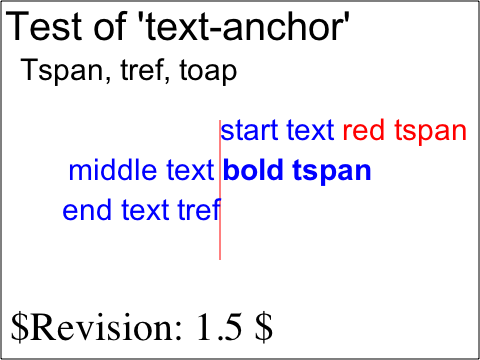
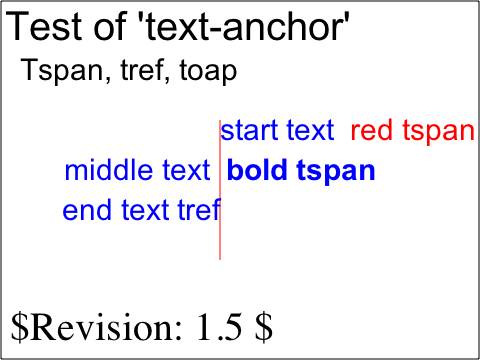
Reviewed by Sam.
Add support for xml:space="preserve" for SVG text.
It can be modeled by using white-space="pre" and replace \n by spaces.

Handle xml:space="default" correctly.
Always remove tabs from SVG text - as demanded by spec.

Added test: svg/custom/text-whitespace-handling.svg

Identifier: 16303@main
git-svn-id: https://svn.webkit.org/repository/webkit/trunk@19390 268f45cc-cd09-0410-ab3c-d52691b4dbfc

Changed region(s): [[0.125, 0.4278, 0.7812, 0.5194], [0.7188, 0.3361, 1.0, 0.3972]]

diff --git a/WebCore/css/svg.css b/WebCore/css/svg.css
@@ -51,5 +51,5 @@ text, foreignObject {
 }
 
 text, tspan {
-   white-space: nowrap !important
+   white-space: nowrap
 }

diff --git a/WebCore/rendering/bidi.cpp b/WebCore/rendering/bidi.cpp
@@ -1912,6 +1912,16 @@ static inline bool shouldCollapseWhiteSpace(const RenderStyle* style)
     return style->collapseWhiteSpace() || (style->whiteSpace() == PRE_WRAP && (!isLineEmpty || !previousLineBrokeCleanly));
 }
 
+static inline bool shouldPreserveNewline(RenderObject* object)
+{
+#ifdef SVG_SUPPORT
+    if (object->isSVGText())
+        return false;
+#endif
+
+    return object->style()->preserveNewline();
+}
+
 int RenderBlock::skipWhitespace(BidiIterator &it, BidiState &bidi)
 {
     // FIXME: The entire concept of the skipWhitespace function is flawed, since we really need to be building
@@ -1920,7 +1930,7 @@ int RenderBlock::skipWhitespace(BidiIterator &it, BidiState &bidi)
     // object iteration process.
     int w = lineWidth(m_height);
     while (!it.atEnd() && (it.obj->isInlineFlow() || (shouldCollapseWhiteSpace(it.obj->style()) && !it.obj->isBR() &&
-          (it.current() == ' ' || it.current() == '\t' || (!it.obj->style()->preserveNewline() && it.current() == '\n') ||
+          (it.current() == ' ' || it.current() == '\t' || (!shouldPreserveNewline(it.obj) && it.current() == '\n') ||
           it.current() == softHyphen || skipNonBreakingSpace(it) || it.obj->isFloatingOrPositioned())))) {
         if (it.obj->isFloatingOrPositioned()) {
             RenderObject *o = it.obj;
@@ -2008,7 +2018,13 @@ BidiIterator RenderBlock::findNextLineBreak(BidiIterator &start, BidiState &bidi
         
         bool autoWrap = RenderStyle::autoWrap(currWS);
         autoWrapWasEverTrueOnLine = autoWrapWasEverTrueOnLine || autoWrap;
+
+#ifdef SVG_SUPPORT
+        bool preserveNewline = o->isSVGText() ? false : RenderStyle::preserveNewline(currWS);
+#else
         bool preserveNewline = RenderStyle::preserveNewline(currWS);
+#endif
+
         bool collapseWhiteSpace = RenderStyle::collapseWhiteSpace(currWS);
             
         if (o->isBR()) {
@@ -2276,7 +2292,7 @@ BidiIterator RenderBlock::findNextLineBreak(BidiIterator &start, BidiState &bidi
                             }
                         }
                         if (lineWasTooWide || w + tmpW > width) {
-                            if (lBreak.obj && lBreak.obj->style()->preserveNewline() && lBreak.obj->isText() && static_cast<RenderText*>(lBreak.obj)->characters()[lBreak.pos] == '\n') {
+                            if (lBreak.obj && shouldPreserveNewline(lBreak.obj) && lBreak.obj->isText() && static_cast<RenderText*>(lBreak.obj)->characters()[lBreak.pos] == '\n') {
                                 if (!stoppedIgnoringSpaces && pos > 0) {
                                     // We need to stop right before the newline and then start up again.
                                     BidiIterator midpoint(0, o, pos);
@@ -2393,7 +2409,7 @@ BidiIterator RenderBlock::findNextLineBreak(BidiIterator &start, BidiState &bidi
                     RenderText* nextText = static_cast<RenderText*>(next);
                     if (nextText->textLength() != 0) {
                         UChar c = nextText->characters()[0];
-                        if (c == ' ' || c == '\t' || (c == '\n' && !next->style()->preserveNewline()))
+                        if (c == ' ' || c == '\t' || (c == '\n' && !shouldPreserveNewline(next)))
                             // If the next item on the line is text, and if we did not end with
                             // a space, then the next text run continues our word (and so it needs to
                             // keep adding to |tmpW|.  Just update and continue.
@@ -2470,7 +2486,7 @@ BidiIterator RenderBlock::findNextLineBreak(BidiIterator &start, BidiState &bidi
 
     if (lBreak == start && !lBreak.obj->isBR()) {
         // we just add as much as possible
-        if (style()->preserveNewline()) {
+        if (shouldPreserveNewline(this)) {
             // FIXME: Don't really understand this case.
             if (pos != 0) {
                 lBreak.obj = o;

diff --git a/WebCore/rendering/RenderText.cpp b/WebCore/rendering/RenderText.cpp
@@ -85,9 +85,14 @@ void RenderText::setStyle(RenderStyle* newStyle)
 
     RenderObject::setStyle(newStyle);
 
-    if (oldTransform != newStyle->textTransform() || oldSecurity != newStyle->textSecurity())
+    if (oldTransform != newStyle->textTransform() || oldSecurity != newStyle->textSecurity()
+#ifdef SVG_SUPPORT
+        || isSVGText() /* All SVG text has to be transformed */
+#endif
+       ) {
         if (RefPtr<StringImpl> textToTransform = originalText())
             setText(textToTransform.release(), true);
+    }
 
     if (fontChanged)
         updateMonospaceCharacterWidth();
@@ -825,6 +830,37 @@ void RenderText::setTextInternal(PassRefPtr<StringImpl> text)
 
     if (m_text) {
         m_text = m_text->replace('\\', backslashAsCurrencySymbol());
+
+#ifdef SVG_SUPPORT
+        if (isSVGText()) {
+            if (style() && style()->whiteSpace() == PRE) {
+                // Spec: When xml:space="preserve", the SVG user agent will do the following using a
+                // copy of the original character data content. It will convert all newline and tab
+                // characters into space characters. Then, it will draw all space characters, including
+                // leading, trailing and multiple contiguous space characters.
+
+                m_text = m_text->replace('\n', ' ');
+
+                // If xml:space="preserve" is set, white-space is set to "pre", which
+                // preserves leading, trailing & contiguous space character for us.
+           } else {
+                // Spec: When xml:space="default", the SVG user agent will do the following using a
+                // copy of the original character data content. First, it will remove all newline
+                // characters. Then it will convert all tab characters into space characters.
+                // Then, it will strip off all leading and trailing space characters.
+                // Then, all contiguous space characters will be consolidated.    
+
+                static StringImpl empty("", 0);
+                m_text = m_text->replace('\n', &empty);
+    
+                // If xml:space="default" is set, white-space is set to "nowrap", which handles
+                // leading, trailing & contiguous space character removal for us.
+            }
+
+            m_text = m_text->replace('\t', ' ');
+        }
+#endif
+
         if (style()) {
             switch (style()->textTransform()) {
                 case TTNONE:

diff --git a/WebCore/ksvg2/svg/SVGTextContentElement.cpp b/WebCore/ksvg2/svg/SVGTextContentElement.cpp
@@ -1,5 +1,5 @@
 /*
-    Copyright (C) 2004, 2005 Nikolas Zimmermann <wildfox@kde.org>
+    Copyright (C) 2004, 2005, 2007 Nikolas Zimmermann <zimmermann@kde.org>
                   2004, 2005, 2006 Rob Buis <buis@kde.org>
 
     This file is part of the KDE project
@@ -21,13 +21,17 @@
 */
 
 #include "config.h"
+
 #ifdef SVG_SUPPORT
 #include "SVGTextContentElement.h"
 
+#include "CSSPropertyNames.h"
+#include "CSSValueKeywords.h"
 #include "FloatPoint.h"
 #include "FloatRect.h"
 #include "SVGLength.h"
 #include "SVGNames.h"
+#include "XMLNames.h"
 
 namespace WebCore {
 
@@ -105,8 +109,17 @@ void SVGTextContentElement::parseMappedAttribute(MappedAttribute* attr)
     } else {
         if (SVGTests::parseMappedAttribute(attr))
             return;
-        if (SVGLangSpace::parseMappedAttribute(attr))
+        if (SVGLangSpace::parseMappedAttribute(attr)) {
+            if (attr->name().matches(XMLNames::spaceAttr)) {
+                static const AtomicString preserveString("preserve");
+
+                if (attr->value() == preserveString)
+                    addCSSProperty(attr, CSS_PROP_WHITE_SPACE, CSS_VAL_PRE);
+                else
+                    addCSSProperty(attr, CSS_PROP_WHITE_SPACE, CSS_VAL_NOWRAP);
+            }
             return;
+        }
         if (SVGExternalResourcesRequired::parseMappedAttribute(attr))
             return;
 
@@ -116,6 +129,6 @@ void SVGTextContentElement::parseMappedAttribute(MappedAttribute* attr)
 
 }
 
-// vim:ts=4:noet
 #endif // SVG_SUPPORT
 
+// vim:ts=4:noet
